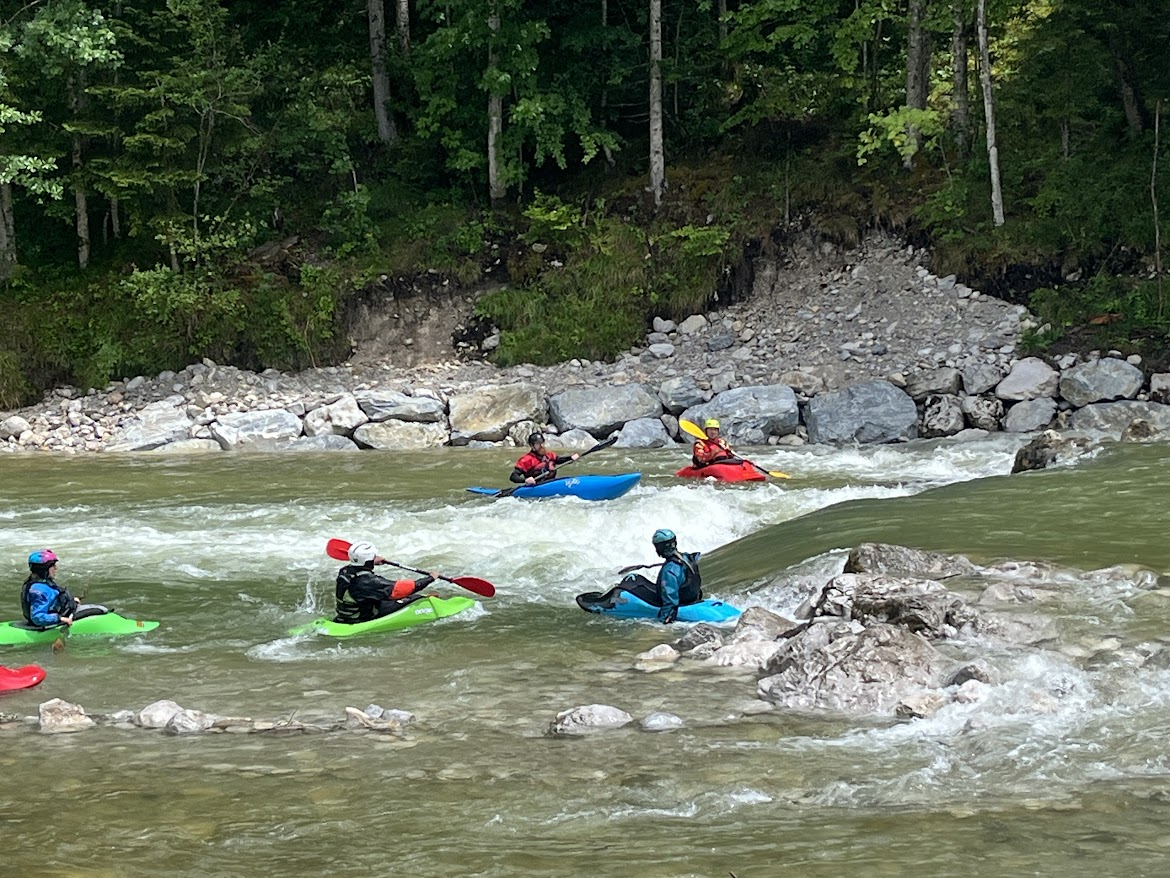
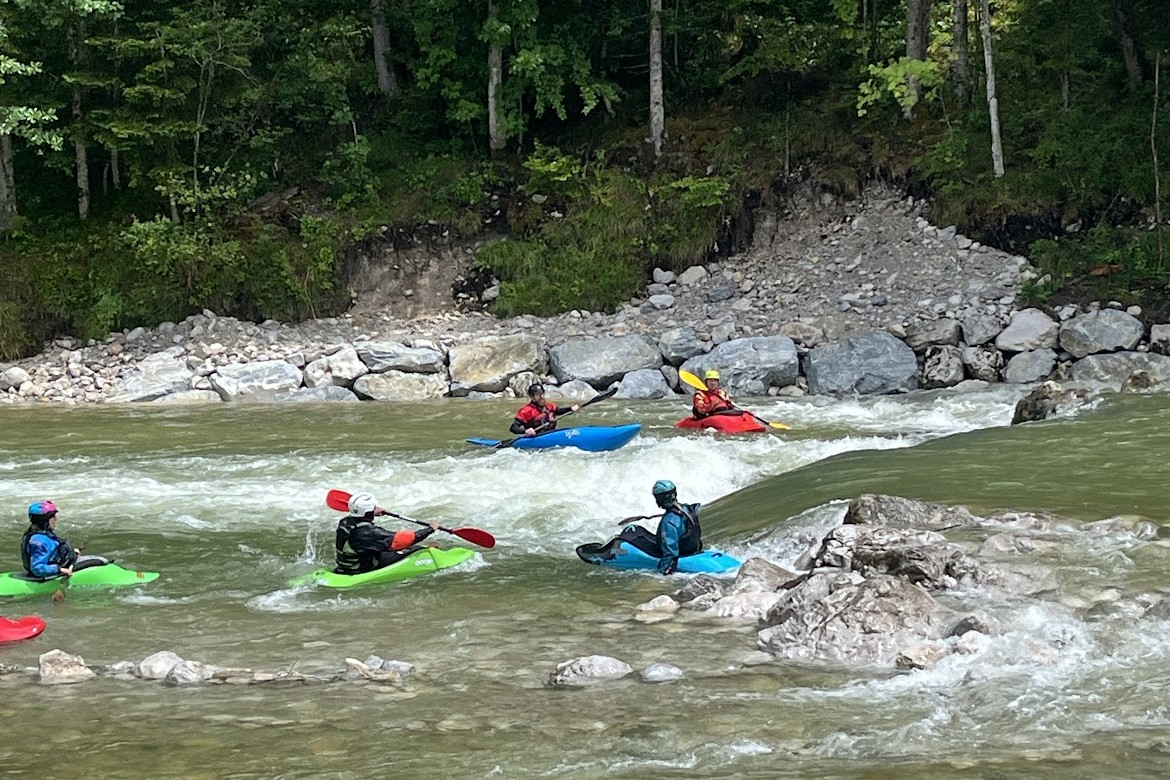
Update Pozostałe strony “szkolenia”

diff --git a/content/szkolenia.md b/content/szkolenia.md
@@ -3,7 +3,7 @@ title: Szkolenia
 ---
 Dbamy o Nasz rozwój! Bierzemy udział w szkoleniach z kajakarstwa górskiego na różnym poziomie zaawansowania. 
 
-![](/42321.jpg) ![](/img_3234.jpg)
+![](/img_3234.jpg) ![](/img_3234.jpg)
 
 **Salza szkoleniowa**
 
